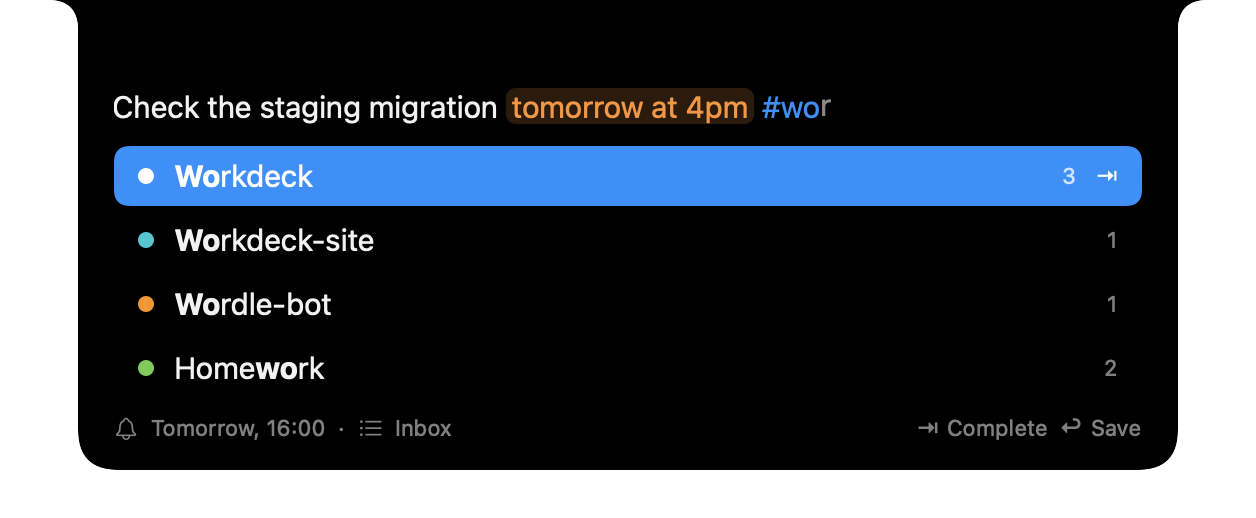
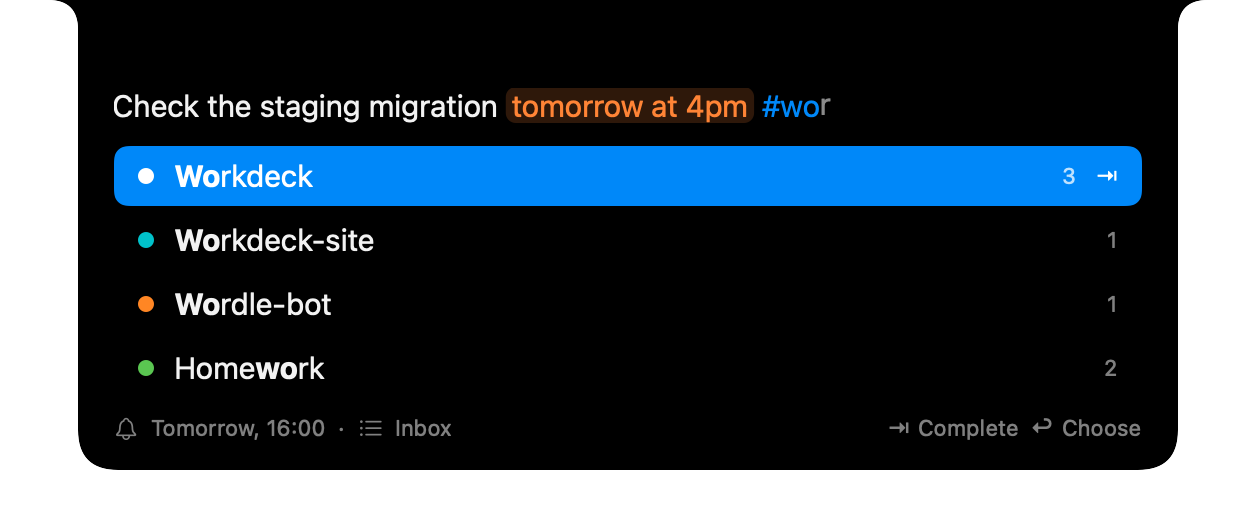
fix(notes): pick lists on return and stop tinting plain hash text
Return in the open # list now takes the selected list, or the new
one on the "Create list" row, and leaves the note open; the next
Return saves it and creates the list. Before, Return saved at once,
and a new list's note went to Inbox with #name in its text.

The #... query is tinted only while its list is open, so a note
that starts with # and goes on reads as plain text.

diff --git a/Workdeck/Features/Notes/Panel/NotesPanelModel.swift b/Workdeck/Features/Notes/Panel/NotesPanelModel.swift
@@ -201,6 +201,12 @@ final class NotesPanelModel {
         !matches.isEmpty || createListTitle != nil
     }
 
+    /// The `#…` the field tints: only while its list is open. Once it closes, the text stays as written and reads as
+    /// plain text (`#1 check staging`).
+    var tintedQuery: Range<String.Index>? {
+        isListOpen ? draft.query()?.range : nil
+    }
+
     private func refreshDerived() {
         let wasOpen = isListOpen
         let oldMatches = matches.map(\.id)
@@ -350,17 +356,42 @@ final class NotesPanelModel {
             guard let last = pendingDone.last else { return false }
             cancelPendingDone(last.id)
             return true
-        case .returnKey, .commandReturn:
+        case .returnKey:
+            // While the `#` list is open, ↩ takes the selected row and the note stays: the next ↩ saves it (a new
+            // list is created then).
+            if !isBusy, takeSelectedListRow() {
+                return true
+            }
+            return isBusy ? true : nil
+        case .commandReturn:
             return isBusy ? true : nil
         }
+    }
+
+    /// Turns the "Create list" row into the chip while it is the only row; false when it is not shown.
+    private func takeCreateListRow() -> Bool {
+        guard isListOpen, draft.query() != nil, matches.isEmpty, let title = createListTitle else { return false }
+        cycleMatches = []
+        draft.apply(.createList(title))
+        return true
+    }
+
+    /// Turns the selected row of the open `#` list (the first when none is selected) into the chip; false while the
+    /// list is closed.
+    private func takeSelectedListRow() -> Bool {
+        if takeCreateListRow() {
+            return true
+        }
+        guard isListOpen, draft.query() != nil, !matches.isEmpty else { return false }
+        let row = selectedRow.flatMap { matches.indices.contains($0) ? $0 : nil } ?? 0
+        pickList(matches[row])
+        return true
     }
 
     /// Tab, as in a terminal (spec §3.2). Not consumed outside a `#…` and without a chip to cycle.
     private func tab() -> Bool {
         if isListOpen, draft.query() != nil {
-            if matches.isEmpty, let title = createListTitle {
-                cycleMatches = []
-                draft.apply(.createList(title))
+            if takeCreateListRow() {
                 return true
             }
             let used = matches
@@ -628,9 +659,7 @@ final class NotesPanelModel {
 
     private func saveTypedNote() async {
         guard hasText else { return }
-        if isListOpen {
-            draft.apply(.commitExact(lists: controller.lists))
-        }
+        commitOpenList()
         switch await controller.save(draft) {
         case let .saved(item, listTitle):
             needsAccess = false
@@ -646,9 +675,7 @@ final class NotesPanelModel {
     /// Saves the typed note before a hand-off; nil when it was not saved (the panel says why).
     private func saveDraftForHandOff() async -> ReminderItem? {
         guard hasText else { return nil }
-        if isListOpen {
-            draft.apply(.commitExact(lists: controller.lists))
-        }
+        commitOpenList()
         switch await controller.save(draft) {
         case let .saved(item, _):
             needsAccess = false
@@ -662,6 +689,17 @@ final class NotesPanelModel {
         case let .failed(reason):
             confirm(NotesConfirmation(symbol: "exclamationmark", title: "Couldn't save", subtitle: reason), closesPanel: false)
             return nil
+        }
+    }
+
+    /// Before a ⌘↩ save (↩ takes the open list's row without saving): an exact match becomes the chip, and so does the
+    /// "Create list" row (the list is created with the note). Text typed past the list keeps its `#…` as written.
+    private func commitOpenList() {
+        guard isListOpen else { return }
+        if matches.isEmpty, let title = createListTitle {
+            draft.apply(.createList(title))
+        } else {
+            draft.apply(.commitExact(lists: controller.lists))
         }
     }
 

diff --git a/WorkdeckTests/Notes/NotesPanelModelTests.swift b/WorkdeckTests/Notes/NotesPanelModelTests.swift
@@ -274,6 +274,23 @@ struct NotesPanelModelTests {
         #expect(model.summaryListTitle == "infra (new)")
     }
 
+    @Test func theQueryIsTintedOnlyWhileTheListIsOpen() async {
+        let (model, _) = await makeModel()
+        model.textChanged("#infra")
+        #expect(model.tintedQuery == model.draft.query()?.range)
+        #expect(model.tintedQuery != nil)
+
+        model.textChanged("#1 проверить стейдж")
+        #expect(!model.isListOpen)
+        #expect(model.tintedQuery == nil)
+        #expect(await model.handle(.returnKey))
+        guard case let .add(title, _, _) = store.added.first else {
+            Issue.record("expected a save")
+            return
+        }
+        #expect(title == "#1 проверить стейдж")
+    }
+
     @Test func typingRightAfterAChipAddsASpace() async {
         let (model, _) = await makeModel()
         await typeWithProject(model, "Note #Workdeck")
@@ -291,9 +308,18 @@ struct NotesPanelModelTests {
         #expect(await model.handle(.backspace) == false)
     }
 
-    @Test func returnCommitsAnExactMatchThenSaves() async {
+    @Test func returnTakesTheSelectedListThenTheNextReturnSaves() async {
         let (model, _) = await makeModel()
-        model.textChanged("Note #wordle-bot")
+        model.textChanged("Note #wor")
+        #expect(await model.handle(.down))
+        #expect(model.matches[1].id == "wb")
+        #expect(await model.handle(.returnKey))
+        #expect(model.draft.project?.listID == "wb")
+        #expect(model.draft.text == "Note Wordle-bot")
+        #expect(model.draft.query() == nil)
+        #expect(!model.isListOpen)
+        #expect(store.added.isEmpty)
+
         #expect(await model.handle(.returnKey))
         guard case let .add(title, _, listID) = store.added.first else {
             Issue.record("expected a save")
@@ -301,6 +327,42 @@ struct NotesPanelModelTests {
         }
         #expect(title == "Note")
         #expect(listID == "wb")
+    }
+
+    @Test func returnOnTheCreateRowTakesItThenTheNextReturnCreatesTheListAndSaves() async {
+        let (model, _) = await makeModel()
+        model.textChanged("#infra")
+        #expect(model.createListTitle == "infra")
+        #expect(await model.handle(.returnKey))
+        #expect(model.draft.project?.newListTitle == "infra")
+        #expect(model.draft.query() == nil)
+        #expect(store.added.isEmpty)
+        #expect(!store.calls.contains(.createList("infra")))
+
+        model.textChanged("Продлить домен infra")
+        #expect(model.draft.project?.newListTitle == "infra")
+        #expect(await model.handle(.returnKey))
+        #expect(store.calls.contains(.createList("infra")))
+        let created = store.listInfos.first { $0.title == "infra" }
+        guard case let .add(title, _, listID) = store.added.first else {
+            Issue.record("expected a save")
+            return
+        }
+        #expect(title == "Продлить домен")
+        #expect(listID == created?.id)
+    }
+
+    @Test func returnAfterTypingPastTheCreateRowKeepsTheHashInTheTitle() async {
+        let (model, _) = await makeModel()
+        model.textChanged("fix issue #123 ")
+        #expect(model.createListTitle == nil)
+        #expect(await model.handle(.returnKey))
+        #expect(!store.calls.contains(.createList("123")))
+        guard case let .add(title, _, _) = store.added.first else {
+            Issue.record("expected a save")
+            return
+        }
+        #expect(title == "fix issue #123")
     }
 
     // MARK: Open items

diff --git a/Workdeck/Features/Notes/Panel/NotesPanelView.swift b/Workdeck/Features/Notes/Panel/NotesPanelView.swift
@@ -189,8 +189,8 @@ struct NoteField: View {
             decorations.chip = NSRange(project.range, in: text)
             decorations.chipColor = model.list(withID: project.listID).map(\.nsColor) ?? .systemBlue
         }
-        if let query = draft.query() {
-            decorations.query = NSRange(query.range, in: text)
+        if let query = model.tintedQuery, query.upperBound <= text.endIndex {
+            decorations.query = NSRange(query, in: text)
         }
         return decorations
     }
@@ -266,8 +266,13 @@ struct ListFooter: View {
             }
             ListLabel(title: model.summaryListTitle)
             Spacer(minLength: 8)
-            KeyHint(key: "⇥", label: model.createListTitle != nil ? "Create" : "Complete")
-            KeyHint(key: "↩", label: "Save")
+            // ↩ takes the selected row; the note is saved by the next ↩.
+            if model.createListTitle != nil {
+                KeyHint(key: "↩", label: "Create")
+            } else {
+                KeyHint(key: "⇥", label: "Complete")
+                KeyHint(key: "↩", label: "Choose")
+            }
         }
         .font(NotesPanelStyle.secondaryFont)
         .foregroundStyle(NotesPanelStyle.secondary)

diff --git a/specs/2026-11-06-quick-notes-design.md b/specs/2026-11-06-quick-notes-design.md
@@ -108,10 +108,10 @@ Whatever shows in the notch (sessions, an alert) is hidden while the panel is op
 - **Committing** (builder's call, made in review): only a committed project is a project.
   - Tab or a click on a row commits it; the `#…` text becomes a chip and the list closes.
   - **Space** commits only when the typed text after `#` equals a list name exactly and no other list starts with that text followed by a space; otherwise the space becomes part of the query, so multi-word names ("Shopping list", Russian names with spaces) are typed naturally.
-  - **↩** commits an exact match, then saves the note.
-  - When the query matches no list and is not committed, the list closes as soon as the text no longer matches anything but the "Create list" row and the user types on; the `#…` text then stays in the title as written (`fix issue #123`, `C#`). A list is created only through the "Create list" row (Tab or click).
+  - **↩** commits the selected row (the first when none is selected), the "Create list" row too, and does not save: the next ↩ saves. ⌘↩ commits an exact match or the "Create list" row, then saves and hands off.
+  - When the query matches no list and is not committed, the list closes as soon as the text no longer matches anything but the "Create list" row and the user types on; the `#…` text then stays in the title as written (`fix issue #123`, `C#`). A list is created only through the "Create list" row (Tab, ↩ or a click).
 - **Backspace** right after a chip turns it back into `#name` text.
-- **No match:** the only row is "Create list "name" in Reminders". Tab or a click commits it; the list is created when the note is saved, in the default source (iCloud when present), with a color Reminders picks.
+- **No match:** the only row is "Create list "name" in Reminders". Tab, ↩ or a click commits it; the list is created when the note is saved, in the default source (iCloud when present), with a color Reminders picks.
 - One project per note; committing a second project replaces the first chip.
 - The chip is not part of the saved title; uncommitted `#…` text is.
 

diff --git a/docs/quick-notes.md b/docs/quick-notes.md
@@ -25,8 +25,8 @@ A project is a Reminders list. Type `#` and a few letters: the matching lists op
 
 - **Tab works like a terminal.** When the matches share a longer start than you typed, Tab completes to it (shown in gray beforehand). Otherwise Tab takes the selected list, and Tab again moves to the next match. ↑↓ select, a click takes a row.
 - A taken list becomes a chip in its color; it is not part of the reminder's title, and its name is never read as a date (a list called "Today" sets no reminder). Backspace right after the chip turns it back into `#name` text. A note has one project; taking another replaces the chip.
-- Space takes a list only when the text after `#` is exactly its name and no other list starts with that name and a space, so names with spaces ("Shopping list") type naturally. Return takes an exact match and saves.
-- When nothing matches, the only row is **Create list "name" in Reminders**; Tab or a click on it creates the list when the note is saved. Text you do not take stays in the title as written: `fix issue #123`, `C#`.
+- Space takes a list only when the text after `#` is exactly its name and no other list starts with that name and a space, so names with spaces ("Shopping list") type naturally. Return takes the selected list without saving; the next Return saves.
+- When nothing matches, the only row is **Create list "name" in Reminders**; Tab, Return or a click turns it into the project, and the list is created when you save the note with the next Return. Type on past the row and the text stays in the title as written: `fix issue #123 today`, `C#`.
 
 ### Dates
 

diff --git a/CHANGELOG.md b/CHANGELOG.md
@@ -5,6 +5,8 @@ What changed in each version of Workdeck, for the people using it. New lines go 
 ## Unreleased
 
 ### Fixed
+- Quick notes: Return in the `#` list now picks the selected list, or the new one on the "Create list" row, and the next Return saves the note; before, it saved at once, and a new list's note went to Inbox with `#name` in its text.
+- Quick notes: a `#` followed by more words, as in "#1 check staging", now reads as plain text once no list matches, instead of staying blue.
 - A chat started in Terminal or VS Code for the main Claude Code instance could open in another instance when Workdeck itself had been started from a Claude Code session.
 
 ## 1.3.0 — 2026-11-06
